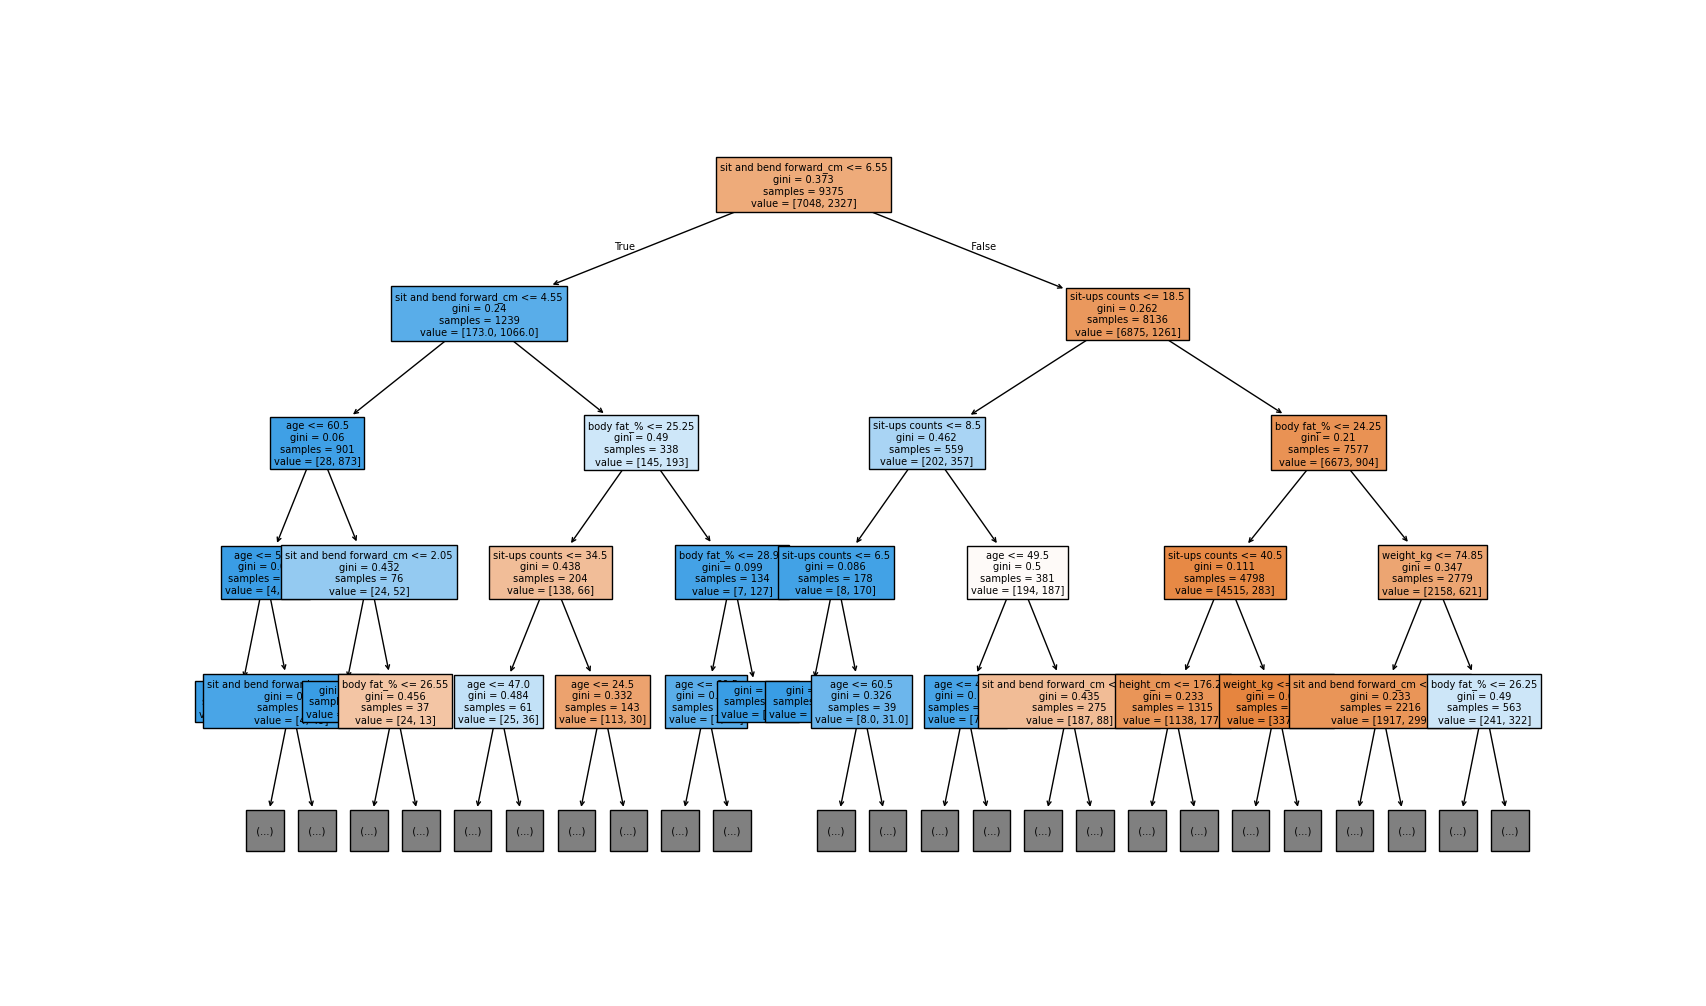
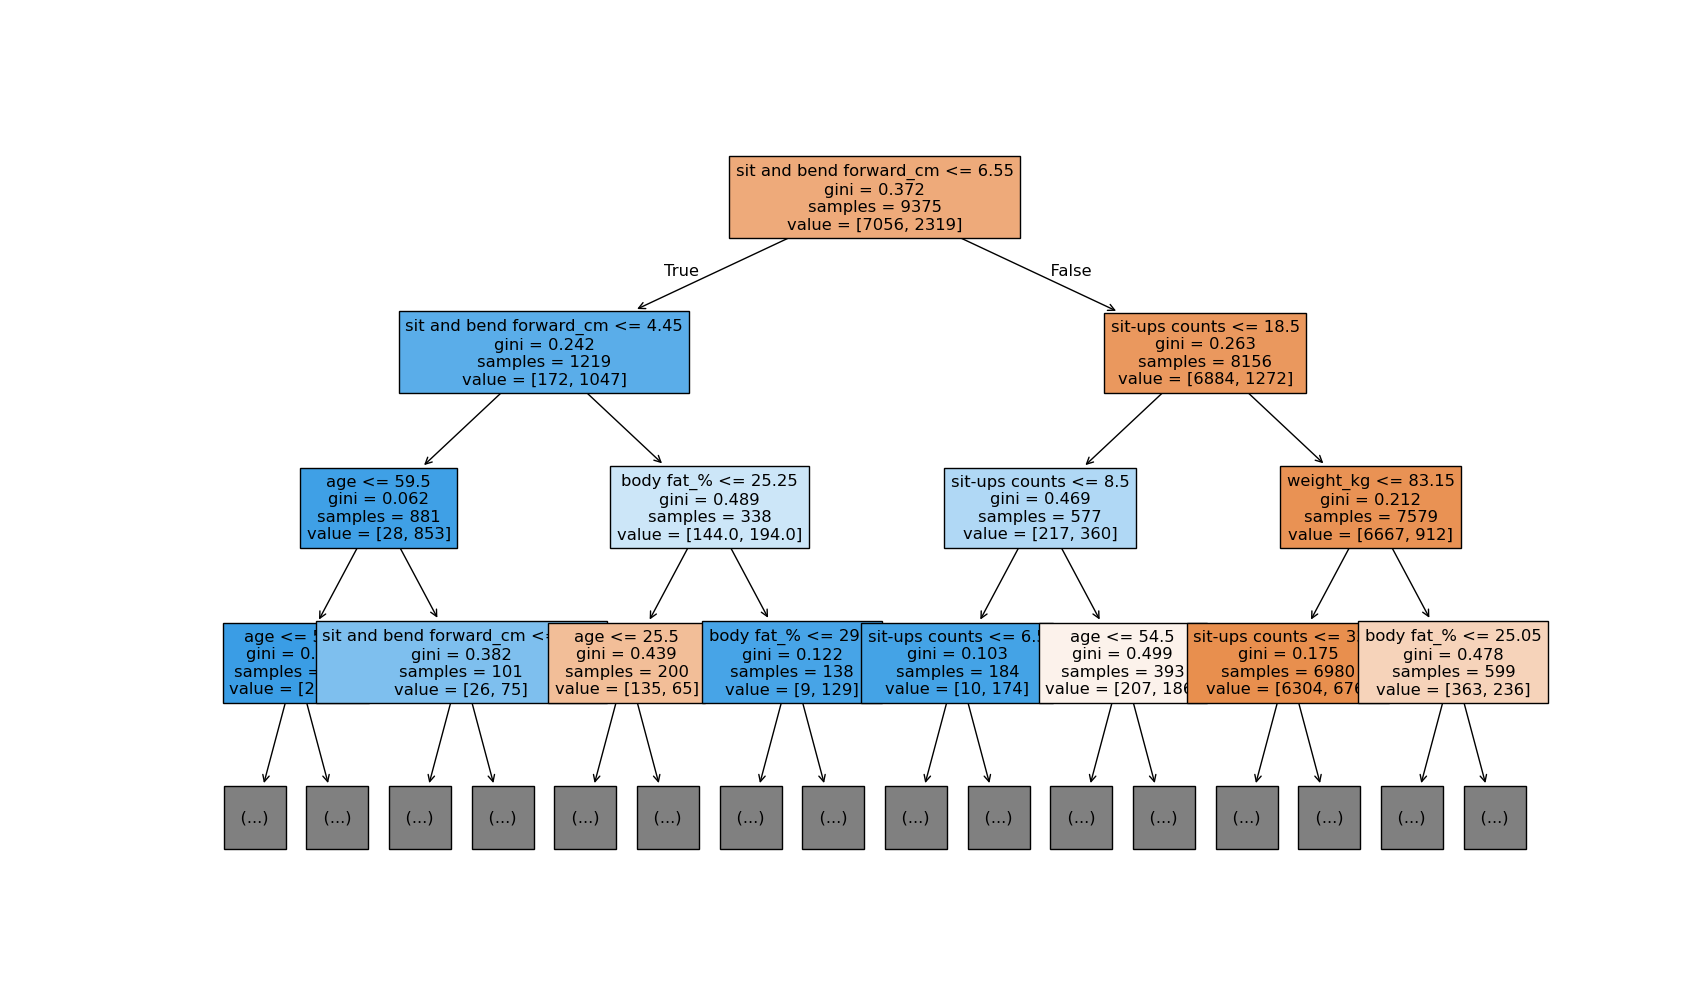
Feat: Project 2 revised, almost finalized, final few checks needed

Changed region(s): [[0.0932, 0.1541, 0.932, 0.8628]]

diff --git a/itcs3162/project2.html b/itcs3162/project2.html
@@ -112,6 +112,7 @@
             <li>Age</li>
             <li>Body fat percentage</li>
             <li>Weight</li>
+            <li>Height</li>
         </ul>
         <figcaption>*Most important</figcaption>
     </figure>
@@ -119,17 +120,20 @@
         <p>
             Ethically speaking, these models shouldn't be published without a very big disclaimer
             about the accuracy. Overall, the accuracy of these models was good enough to show a trend
-            but not good enough to evaluate an individual case with high certainty. These are still important
+            but not good enough to evaluate an individual case with high certainty. These models are still important however,
             because it shows that there are factors that could and have a very strong implication for
             overall fitness and health. This model also makes no distinction or weight for men vs women,
             which is an unfair comparison because fitness is a different standard between the two, which might
-            explain some of the inaccuracy.
+            explain some of the inaccuracy. <br><br>Overall, the question I had was answered.
+            The data is comprised of categories that are deterministic in nature, not randomly.
+            Additionally, the models would suggest that things such as sit up count and the distance leaned
+            forward by each person is a strong starting factor for determining fitness.
         </p>
         <h3>References</h3>
         <ul>
-            <li>Scikit exercise</li>
+            <li>Scikit Exercise</li>
             <li>Kaggle</li>
-            <li>In Class Discussion</li>
+            <li>In-Class Discussion</li>
             <li>Scikit Documentation</li>
         </ul>
         <h3>Code</h3>
@@ -142,7 +146,7 @@ import seaborn as sns
 from sklearn.model_selection import train_test_split
 from sklearn import tree
 # NEEDS ABSOLUTE FILE PATH!!! #
-Raw= pd.read_csv("C:\\Users\\Cranell\\Documents\\GitHub\\Austin0220.github.io\\itcs3162\\projectfiles\\Project 2\\bodyPerformance.csv")
+Raw= pd.read_csv("*Filepath*")
 print(Raw.head())
 print(Raw.columns)
 print(Raw.dtypes)
@@ -171,25 +175,9 @@ fig=plt.figure(figsize=(60,80))
 _= tree.plot_tree(clf, feature_names=X.columns, filled=True, max_depth=4)
 #tree.plot_tree(clf, feature_names=X.columns, filled=True)
 #print(SortedRaw)
-#Questions
-#What correlation if any is there between body fat and strength?
-#how does body fat affect physical fitness?
-#What aspects of physical fitness are most impacted by high body fat%?
-#What correlation if any is there between age and fitness?
 
-#sns.set(rc={"figure.figsize":(20,12)})
-#plot= sns.scatterplot(data=Raw, x='weight_kg', y='gripForce')
-#plot= sns.scatterplot(data=Raw, x='weight_kg', y='body fat_%')
-#plotting both of these columns in relation to weight shows that there is at least some missing factor here that is making up for the clear discrepancy. 
-#two factors make up for dynamic weight (as opposed to static weight being from bones, organs, cartilage which varies marginally with height.) these being fat and muscle.
-#the figure shown illustrates that the relationship between body fat and weight does not map to the relationship between grip strength and weight.
-#plot2= sns.scatterplot(data=Raw, x='weight_kg', y='muscleMass%(Rough)')
-#The data itsef used a ranking system of four ratings, A through D.
-#plot3= sns.boxplot(data=SortedRaw, x='class', y='body fat_%')
-#figure shows a correlation between class and body fat
-#plot3= sns.barplot(data=SortedRaw, x='age', y='gripForce')
 plt.show()
-fig.savefig('C:\\Users\\Cranell\\Documents\\GitHub\\Austin0220.github.io\\itcs3162\\projectfiles\\Project 2\\figure5C.png')
+fig.savefig('*Filepath*')
             </pre>
             </figure>
             <figcaption>

diff --git a/itcs3162/projectfiles/Project 2/Project2Main.py b/itcs3162/projectfiles/Project 2/Project2Main.py
@@ -18,8 +18,8 @@ RefRaw = pd.get_dummies(Raw , drop_first=False)
 print(RefRaw)
 X=RefRaw.drop(columns=['class_D', 'class_B', 'class_C', 'class_A'])
 #y=RefRaw['class_D']
-y=RefRaw['class_C']
-#y=RefRaw['class_B']
+#y=RefRaw['class_C']
+y=RefRaw['class_B']
 #y=RefRaw['class_A']
 print(X)
 print(y)
@@ -31,7 +31,7 @@ print(clf.predict(X_test))
 predicted=clf.predict(X_test)
 print(clf.score(X_test, y_test), predicted)
 fig=plt.figure(figsize=(60,80))
-_= tree.plot_tree(clf, feature_names=X.columns, filled=True, max_depth=4)
+_= tree.plot_tree(clf, feature_names=X.columns, filled=True, max_depth=3)
 #tree.plot_tree(clf, feature_names=X.columns, filled=True)
 #print(SortedRaw)
 #Questions
@@ -52,4 +52,4 @@ _= tree.plot_tree(clf, feature_names=X.columns, filled=True, max_depth=4)
 #figure shows a correlation between class and body fat
 #plot3= sns.barplot(data=SortedRaw, x='age', y='gripForce')
 plt.show()
-fig.savefig('C:\\Users\\Cranell\\Documents\\GitHub\\Austin0220.github.io\\itcs3162\\projectfiles\\Project 2\\figure5C.png')
+fig.savefig('C:\\Users\\Cranell\\Documents\\GitHub\\Austin0220.github.io\\itcs3162\\projectfiles\\Project 2\\figure4B.png')
